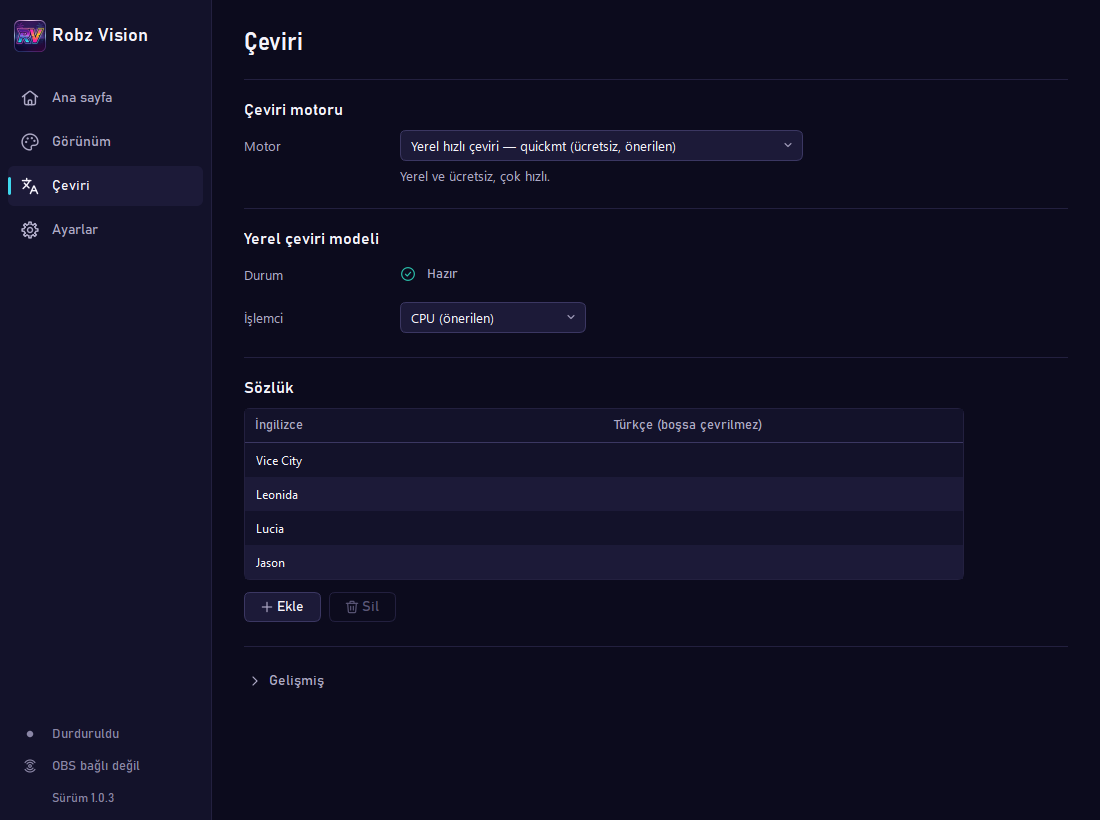
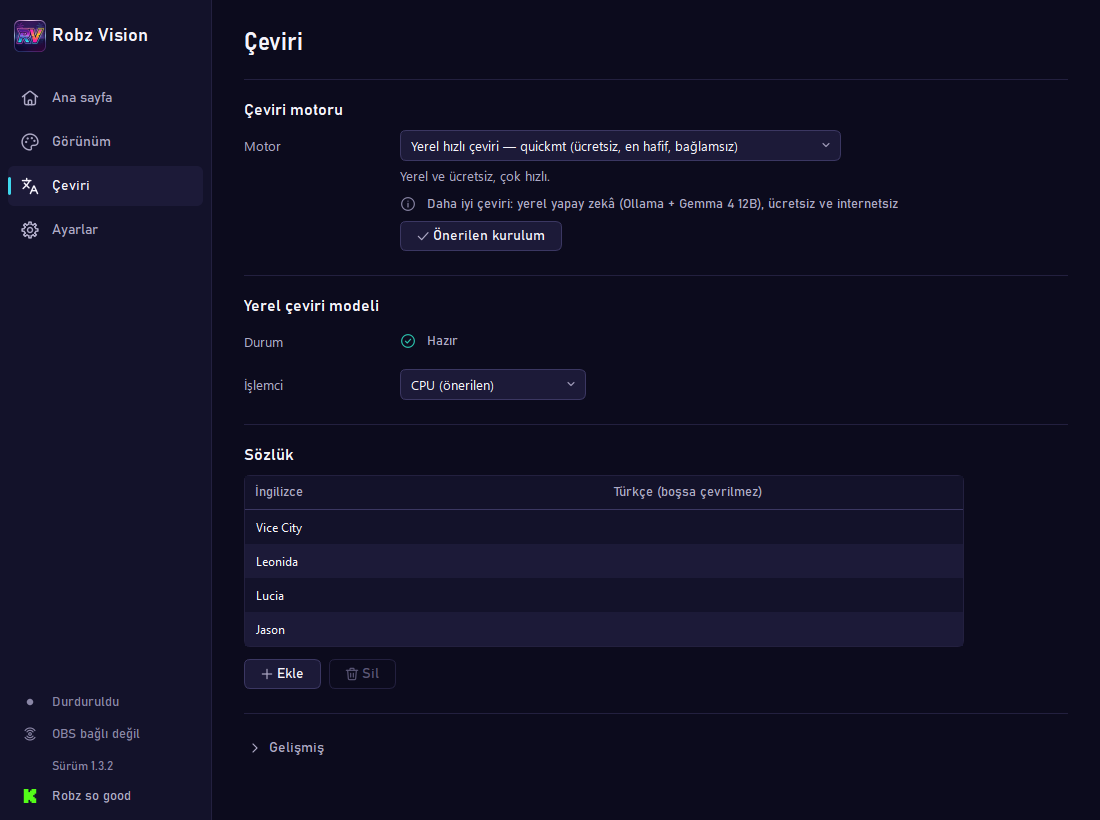
README: uygulama görselleri güncel arayüzle yeniden çekildi, güncelleme penceresi eklendi
Ana sayfa, Görünüm ve Çeviri görselleri şimdiki arayüzü gösteriyor (sürüm satırı, Kick bağlantısı, profilsiz
Çeviri sayfası). Yeni güncelleme penceresi görseli README'de ve kullanım kılavuzunda; araç ağa gitmeden, notları
yeni özellik içeren son sürümden alarak üretir.

diff --git a/tools/arayuz_goruntusu.py b/tools/arayuz_goruntusu.py
@@ -2,7 +2,7 @@
 
 Kullanım:  python tools/arayuz_goruntusu.py ÇIKTI_KLASÖRÜ [--genislik 1100]
 Çıktı: ana_pencere.png, sayfa_<ad>.png (tam yükseklik), secici.png, overlay_ayar.png, overlay_altyazi.png,
-       bolge_penceresi.png, obs_yardim.png, ikonlar.png
+       bolge_penceresi.png, obs_yardim.png, guncelleme.png, ikonlar.png
 Kullanıcının ayar dosyasına yazmaz; boş bir port seçer.
 """
 
@@ -168,6 +168,13 @@ def main() -> int:
         obs.grab().save(str(out / "obs_yardim.png"))
         obs.close()
 
+        # güncelleme penceresi: ağa gitmeden "yeni sürüm var" durumu (bkz. _fake_update), ana pencerenin açtığı gibi
+        _fake_update(ctx.updater)
+        win.open_update_dialog()
+        pump(0.3)
+        win._update_dlg.grab().save(str(out / "guncelleme.png"))
+        win._update_dlg.reject()
+
         # ikon seti
         from altyazitr.gui import icons
         from altyazitr.gui.tokens import C
@@ -205,6 +212,29 @@ def _fake_region_frame(rect):
     a = np.frombuffer(img.constBits(), np.uint8).reshape(H, img.bytesPerLine())[:, :W * 3].reshape(H, W, 3)
     x, y, w, h = rect
     return np.ascontiguousarray(a[y:y + h, x:x + w, ::-1])
+
+
+def _fake_update(upd) -> None:
+    """Güncelleme servisi ağsız "yeni sürüm var" durumuna getirilir: yeni yayınlanmış sürüm, CHANGELOG.md'de yeni
+    özellik ("### Eklendi") içeren en son sürüm (yalnız düzeltme içeren küçük sürümlerin notu vitrinde zayıf kalır);
+    kullanılan sürüm ondan bir önceki. Notlar sürüm sayfasındaki gibi CHANGELOG'daki bölüm (tools/surum_notlari.py).
+    Kurulu kopyanın görünümü (kind "user", kurulum dosyası var: Güncelle düğmesi). Hiçbir şey inmez."""
+    import re
+
+    from altyazitr import __version__
+    from altyazitr.updater import SUMS_NAME, Asset, Release, setup_name
+
+    sys.path.insert(0, str(ROOT / "tools"))
+    from surum_notlari import changelog_section
+
+    text = (ROOT / "CHANGELOG.md").read_text(encoding="utf-8")
+    versions = re.findall(r"^## \[(\d+\.\d+\.\d+)\]", text, re.MULTILINE)
+    v = next((x for x in versions if "### Eklendi" in changelog_section(x, text)), __version__)
+    prev = versions[versions.index(v) + 1] if v in versions[:-1] else v
+    upd.release = Release(v, f"v{v}", f"{upd.source.releases_url}/tag/v{v}", changelog_section(v, text),
+                          Asset(setup_name(v), "", 1), Asset(SUMS_NAME, "", 1))
+    upd.kind, upd.version, upd.status = "user", prev, "available"
+    upd.changed.emit()
 
 
 def _on_bg(pm):

diff --git a/tools/readme_gorselleri.py b/tools/readme_gorselleri.py
@@ -17,6 +17,7 @@ Kullanım:  python tools/readme_gorselleri.py [banner] [demo] [arayuz] [gta6] [-
   bolge_secimi.png    bölge seçici (sahte oyun sahnesinin üstünde)
   konum_ayari.png     "Konumu ayarla" modundaki ekran altyazısı kutusu
   obs_yardim.png      "OBS'e nasıl eklenir?" penceresi
+  guncelleme.png      güncelleme penceresi (bu sürüm yeni yayınlanmış gibi; ağa gidilmez, notlar CHANGELOG.md'den)
 
   gta6 bölümü (resmî GTA VI tanıtım görselleri üzerinde; görseller --kaynak ile verilen klasörde aranır):
   gta6_kahraman.png   1280×640 README başı ve GitHub "Social preview": sahne + İngilizce altyazı + Türkçe kutu + ad
@@ -81,6 +82,7 @@ ARAYUZ = [
     ("secici.png", "bolge_secimi.png", (0.08, 0.58, 0.92, 1.0)),
     ("overlay_ayar.png", "konum_ayari.png", None),
     ("obs_yardim.png", "obs_yardim.png", None),
+    ("guncelleme.png", "guncelleme.png", None),
 ]
 
 # arayuz_goruntusu.py'nin "oyun zemini" olarak düz renkle doldurduğu yüzeyler; ayrı süreçte bu renkler

diff --git a/README.md b/README.md
@@ -74,16 +74,22 @@ Oyun görseli © Rockstar Games / Take-Two Interactive.</sub></p>
 <table>
   <tr>
     <td width="33%" valign="top">
-      <img src="docs/gorseller/ana_pencere.png" alt="Robz Vision ana sayfası: Başlat düğmesi, çevrilecek bölgenin önizlemesi, son çeviri, Ekranımda ve OBS bölümleri"><br>
-      <sub><b>Ana sayfa:</b> Başlat, bölge önizlemesi, son çeviriler, Ekranımda ve OBS.</sub>
+      <img src="docs/gorseller/ana_pencere.png" alt="Robz Vision ana sayfası: Başlat düğmesi, çevrilecek bölgenin önizlemesi, son çeviri, Ekranımda bölümü ve OBS başlığı; kenar çubuğunun altında sürüm satırı ve Kick logolu Robz so good bağlantısı"><br>
+      <sub><b>Ana sayfa:</b> Başlat, bölge önizlemesi, son çeviriler, Ekranımda ve OBS; kenar çubuğunda sürüm ve Kick bağlantısı.</sub>
     </td>
     <td width="33%" valign="top">
-      <img src="docs/gorseller/gorunum.png" alt="Görünüm sayfası: önizleme, hazır stiller ve yazı ayarları"><br>
-      <sub><b>Görünüm:</b> canlı önizleme, hazır stiller, yazı ve vurgu rengi.</sub>
+      <img src="docs/gorseller/gorunum.png" alt="Görünüm sayfası: Ekranımda ve Yayınımda seçici, pembe vurgulu örnek altyazıyla canlı önizleme, beş hazır stil ve yazı ayarları"><br>
+      <sub><b>Görünüm:</b> Ekranımda ve Yayınımda ayrı; canlı önizleme, hazır stiller ve yazı.</sub>
     </td>
     <td width="33%" valign="top">
-      <img src="docs/gorseller/ceviri.png" alt="Çeviri sayfası: motor seçimi, yerel model durumu ve sözlük"><br>
-      <sub><b>Çeviri:</b> motor seçimi, yerel yapay zekâ ve sözlük.</sub>
+      <img src="docs/gorseller/ceviri.png" alt="Çeviri sayfası: motor seçimi (Yerel hızlı çeviri, quickmt), yerel yapay zekâ önerisi ve Önerilen kurulum düğmesi, yerel çeviri modelinin durumu (Hazır) ve sözlük"><br>
+      <sub><b>Çeviri:</b> motor seçimi, yerel yapay zekâyı kuran <i>Önerilen kurulum</i> ve sözlük.</sub>
+    </td>
+  </tr>
+  <tr>
+    <td colspan="3" align="center" valign="top">
+      <img src="docs/gorseller/guncelleme.png" width="360" alt="Güncelleme penceresi: yayınlanan yeni sürüm ve kullandığınız sürüm, Neler yeni? altında sürüm notları, Sürüm sayfası bağlantısı ve Bu sürümü atla, Sonra, Güncelle düğmeleri"><br>
+      <sub><b>Güncelleme:</b> yeni sürüm çıkınca <i>Neler yeni?</i> ve tek tıkla <b>Güncelle</b>; ayarlar ve modeller korunur.</sub>
     </td>
   </tr>
 </table>
@@ -209,7 +215,7 @@ değiştirilebilir). Adım adım anlatım, ekran görüntüleri ve senaryolara g
 <br>
 
 <p align="center">
-  <img src="docs/gorseller/ana_pencere.png" width="760" alt="Robz Vision ana sayfası: Başlat düğmesi, çevrilecek bölgenin önizlemesi, son çeviri, Ekranımda ve OBS bölümleri">
+  <img src="docs/gorseller/ana_pencere.png" width="760" alt="Robz Vision ana sayfası: Başlat düğmesi, çevrilecek bölgenin önizlemesi, son çeviri, Ekranımda bölümü ve OBS başlığı; kenar çubuğunun altında sürüm satırı ve Kick logolu Robz so good bağlantısı">
 </p>
 
 1. **İlk açılış.** Program çevirinin nasıl yapılacağını sorar: *Yapay zekâ ile* ya da *Yalnız hızlı çeviri*

diff --git a/docs/KULLANIM.md b/docs/KULLANIM.md
@@ -127,7 +127,7 @@ yeşile boyanır; altyazı geldiğinde yeşil alan görünmüyorsa bölge ya da 
 **Başlat**'a basın. Üstteki bant *Çalışıyor* olur. Oyunda altyazı belirince Türkçesi ekrandaki kutuda ve
 OBS'te görünür.
 
-![Ana sayfa: Başlat düğmesi, bölge önizlemesi, son çeviri, Ekranımda ve OBS bölümleri](gorseller/ana_pencere.png)
+![Ana sayfa: Başlat düğmesi, bölge önizlemesi, son çeviri, Ekranımda bölümü ve OBS başlığı; kenar çubuğunun altında sürüm satırı ve Kick logolu Robz so good bağlantısı](gorseller/ana_pencere.png)
 
 - **Test** düğmesi ekranınızda ve OBS'te 5 saniyelik örnek bir altyazı gösterir. Oyun açmadan görünümü
   denemek için kullanın.
@@ -220,7 +220,7 @@ oranındadır, *Ekranımda*'da kutunuzun ekrandaki boyutundadır. *Aydınlık* v
 yazının iki durumda da okunduğunu kontrol edin. **Test et** örnek altyazıyı iki tarafta da kendi
 görünümüyle gösterir.
 
-![Görünüm sayfası: önizleme, hazır stiller ve yazı ayarları](gorseller/gorunum.png)
+![Görünüm sayfası: Ekranımda ve Yayınımda seçici, pembe vurgulu örnek altyazıyla canlı önizleme, beş hazır stil ve yazı ayarları](gorseller/gorunum.png)
 
 - **Hazır stiller:** Klasik, Sinema, Kutulu, Sarı, Minimal. Birini seçip üzerinde ince ayar yapabilirsiniz.
 - **Yazı:** yazı tipi, kalınlık, boyut, renk.
@@ -250,7 +250,7 @@ zaten aynıysa düğme soluk görünür. **Varsayılana dön** yalnız seçili t
 
 **Çeviri** sayfasında çeviri motorunu ve sözlüğü ayarlarsınız.
 
-![Çeviri sayfası: motor seçimi, yerel model durumu ve sözlük](gorseller/ceviri.png)
+![Çeviri sayfası: motor seçimi (Yerel hızlı çeviri, quickmt), yerel yapay zekâ önerisi ve Önerilen kurulum düğmesi, yerel çeviri modelinin durumu (Hazır) ve sözlük](gorseller/ceviri.png)
 
 Varsayılan hızlı yerel çeviri (quickmt) her bilgisayarda çalışır ama satırları tek tek çevirir; bazen düz
 ya da yanlış çevirir. Ekran kartınız varsa yerel yapay zekâyı kurun.
@@ -461,6 +461,8 @@ bir GitHub'a kısa bir istek gönderir. Yalnız son sürümün numarası okunur,
 varsa kenar çubuğunda **Güncelleme var** satırı belirir ve bir kez kısa bir bildirim çıkar. Çeviri çalışırken
 bildirim beklenir; yayınınıza tepsi balonu düşmez. Satıra ya da bildirime tıklayınca neler yeni olduğunu
 görürsünüz:
+
+![Güncelleme penceresi: yayınlanan yeni sürüm ve kullandığınız sürüm, Neler yeni? altında sürüm notları, Sürüm sayfası bağlantısı ve Bu sürümü atla, Sonra, Güncelle düğmeleri](gorseller/guncelleme.png)
 
 - **Güncelle:** yeni sürüm iner ve doğrulanır. Boyutu ve SHA256 özeti GitHub'daki sürüm kaydıyla
   karşılaştırılır; tutmazsa dosya silinir, çalıştırılmaz. Sonra Robz Vision kapanır, yeni sürüm kurulur ve
